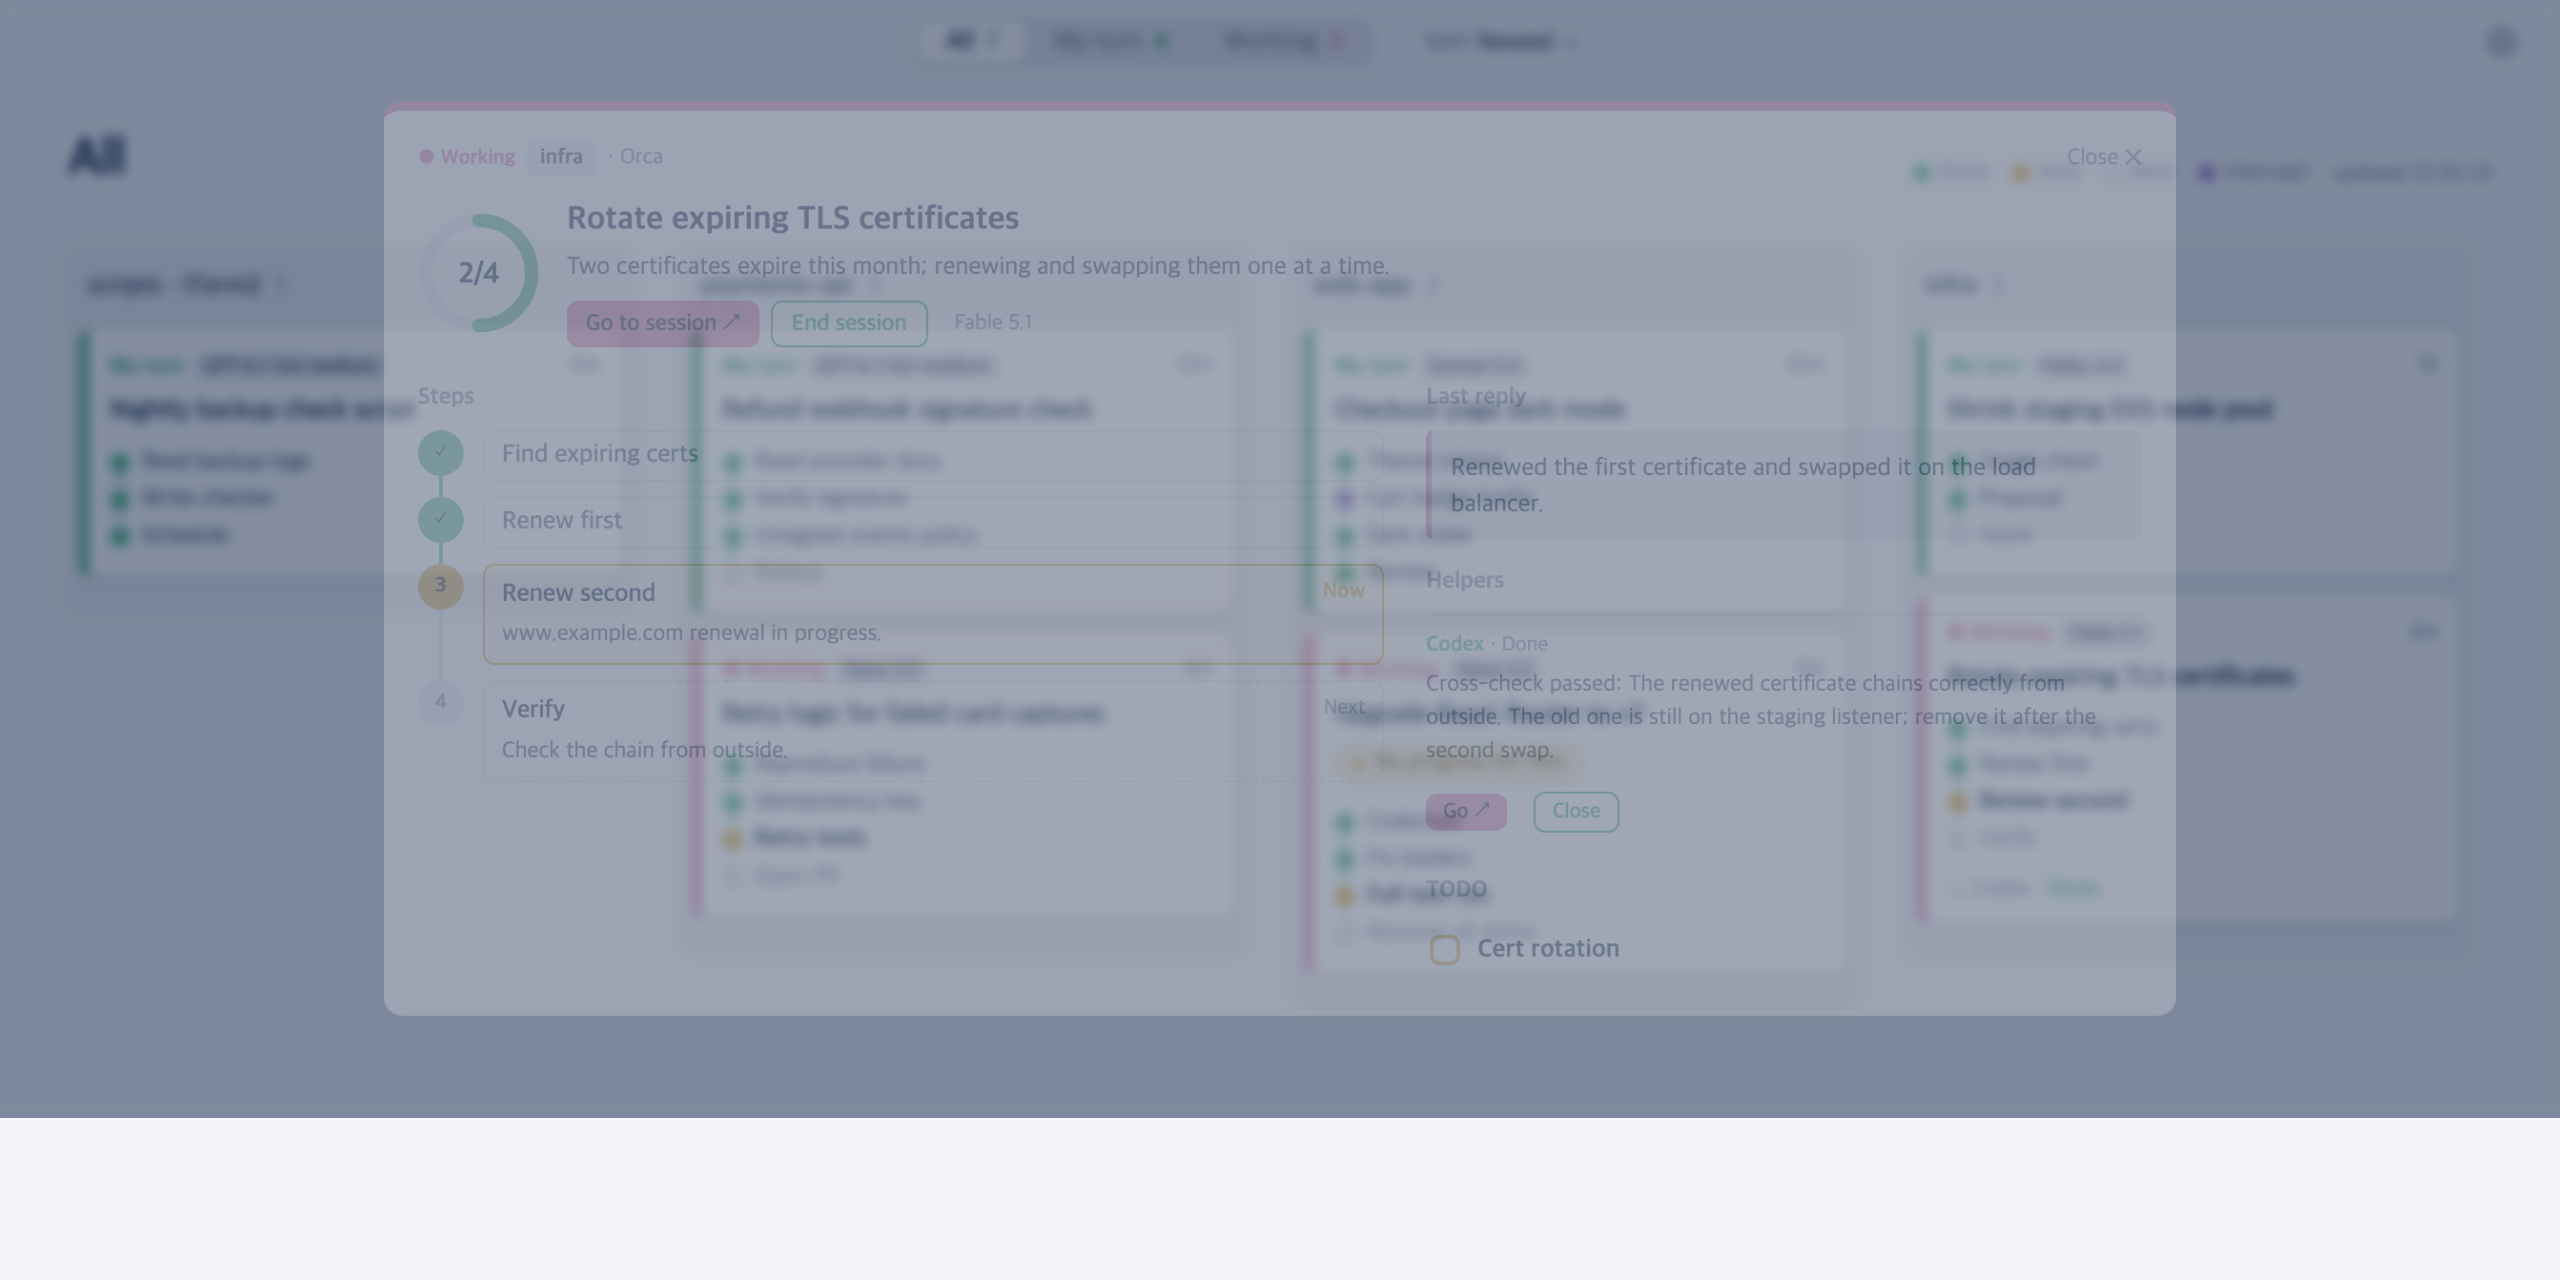
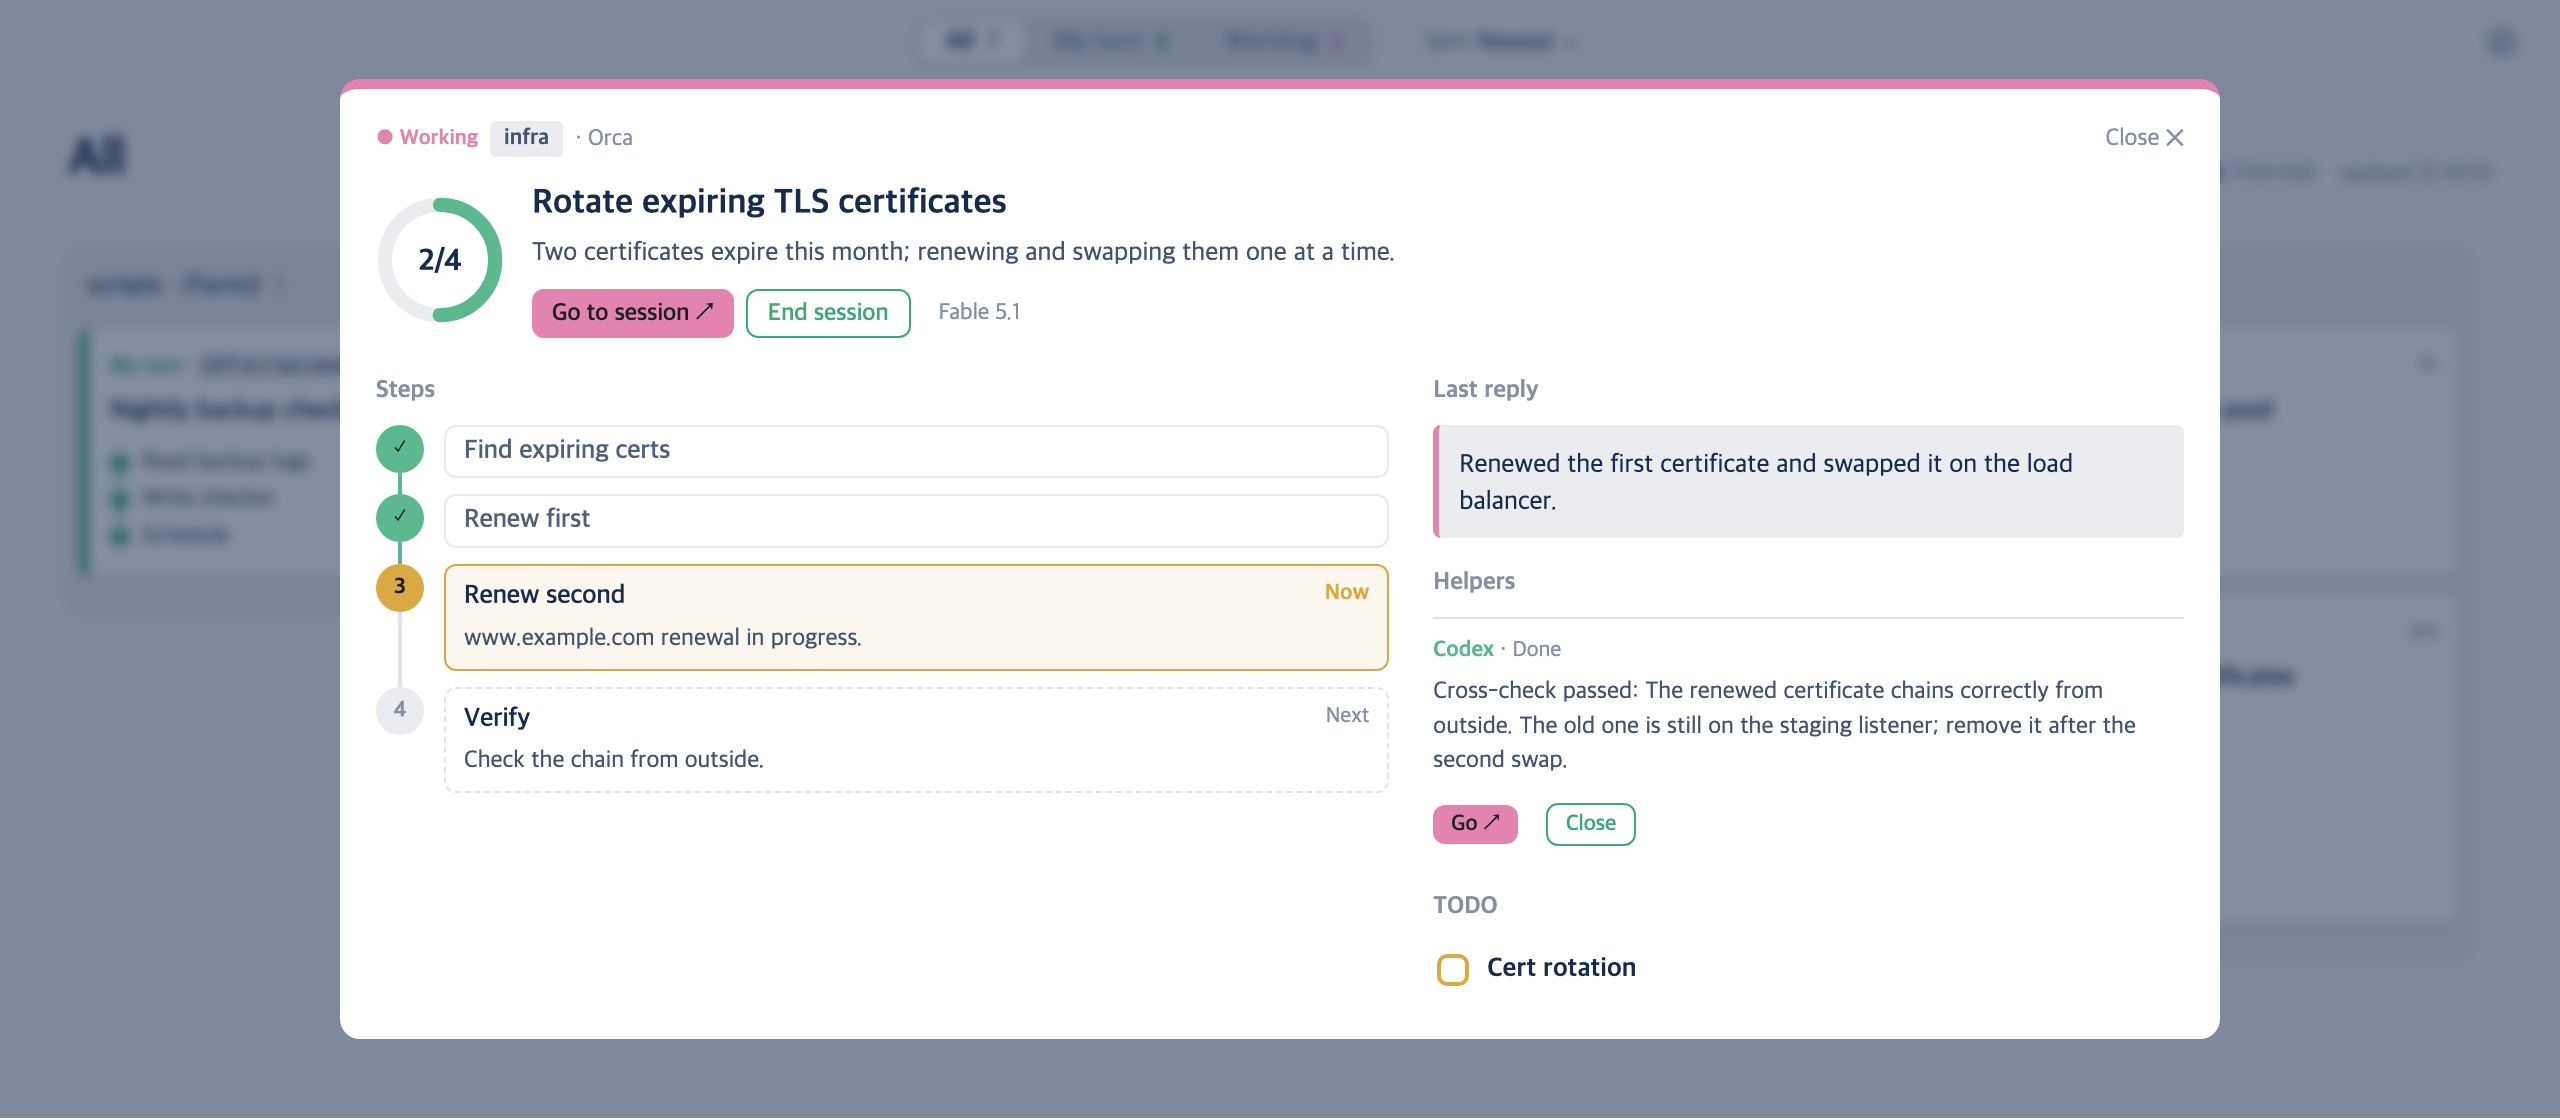
docs: retake the detail view as a Mac window shot
The detail screenshot caught the open animation half way, so the
modal was see-through and a blank strip sat below it. Turn off the
sheet animation with a selector that outranks it, shoot at the same
1280x560 view as board-window.png, and frame it the same way.
README now shows detail-window.png.

diff --git a/macos/board/tools/demo_screens.py b/macos/board/tools/demo_screens.py
@@ -2,6 +2,7 @@
 """README 스크린샷용 데모 보드를 만든다. 실제 세션·대화 기록 대신 가짜 데이터로 board.py 를 그린다.
 
   python3 tools/demo_screens.py            # docs/screenshots/*.png 생성 (Google Chrome 필요)
+  python3 tools/demo_screens.py detail     # 상세 창 그림(detail.png, detail-window.png)만
 """
 import json
 import os
@@ -207,6 +208,24 @@ def trim_bottom(name, pad=40):
 
 
 FROZEN_ORCAS = ('.orca{animation:none!important;transform:translateY(6%)!important}')
+# 상세 창이 열리는 효과(.modal:target .box{animation:sheet ...!important})보다 구체적으로 써야 꺼진다
+FROZEN_MODAL = ('.modal:target .box,.modal:target .bg,.modal *{animation:none!important;transition:none!important}')
+
+
+def mac_window(name, out):
+    """찍은 화면을 README 첫 그림(board-window.png)과 같은 맥 창 모양으로 감싼다.
+    그 그림을 만든 원본 스크립트가 없어서, 배경·그림자는 board-window.png 를 그대로 깔고 창 자리만 바꾼다."""
+    from PIL import Image, ImageDraw
+    bg = Image.open(os.path.join(OUTDIR, 'board-window.png')).convert('RGBA')
+    shot_ = Image.open(os.path.join(OUTDIR, name + '.png')).convert('RGBA')
+    x, y, w, h, r = 80, 64, 2560, 1120, 22   # board-window.png 의 창 자리와 모서리
+    shot_ = shot_.crop((0, 0, w, h))
+    shot_.convert('RGB').save(os.path.join(OUTDIR, name + '.png'), optimize=True)   # 창 없는 그림도 빈 띠 없이
+    big = Image.new('L', (w * 4, h * 4), 0)   # 4배로 그려 줄여서 모서리를 매끈하게
+    ImageDraw.Draw(big).rounded_rectangle((0, 0, w * 4 - 1, h * 4 - 1), r * 4, fill=255)
+    bg.paste(shot_, (x, y), big.resize((w, h), Image.LANCZOS))
+    bg.convert('RGB').save(os.path.join(OUTDIR, out + '.png'), optimize=True)
+    print('wrote', os.path.join(OUTDIR, out + '.png'))
 
 
 def main():
@@ -222,12 +241,17 @@ def main():
     # 범고래는 멈춘 모습으로 두 마리
     html = html.replace('setTimeout(pop,300+Math.random()*1500);', 'pop();pop();')
     open(board, 'w', encoding='utf-8').write(html)
+    first = html.split('class="modal ', 1)[1].split('id="', 1)[1].split('"', 1)[0]
+    # 상세 창: 효과를 끄고 다 열린 모습으로 찍는다. 헤드리스 크롬은 화면 높이가 창보다 80px 작게 잡혀서
+    # 640 으로 찍어야 board-window.png 와 같은 1280x560 화면이 나온다 (아래 남는 80px 은 mac_window 가 잘라낸다)
+    shot(board, 'detail', 1280, 640, hash_='#' + first, css=FROZEN_ORCAS + FROZEN_MODAL)
+    mac_window('detail', 'detail-window')
+    if sys.argv[1:] == ['detail']:   # python3 tools/demo_screens.py detail : 상세 그림만 다시 찍는다
+        shutil.rmtree(TMP, ignore_errors=True)
+        return
     shot(board, 'board', 1280, 700, css=FROZEN_ORCAS)
     trim_bottom('board')
     shot(board, 'settings', 1280, 980, hash_='#settings', css=FROZEN_ORCAS + '#mcpu,#mmem{visibility:hidden}')
-    first = html.split('class="modal ', 1)[1].split('id="', 1)[1].split('"', 1)[0]
-    # 상세 창이 열리는 효과 중간에 찍히면 반투명하게 나온다. 효과를 끄고 다 열린 모습으로 찍는다
-    shot(board, 'detail', 1280, 640, hash_='#' + first, css=FROZEN_ORCAS + '.modal,.modal *{animation:none!important;transition:none!important}')
     patch('ai')
     B.build()
     shot(B.OUT, 'ai-groups', 1280, 700)   # 넉넉히 찍고 아래 빈 공간은 잘라낸다 (칸마다 카드 수가 달라 잘리던 것 방지)

diff --git a/README.md b/README.md
@@ -38,7 +38,7 @@ brew install leeleelee3264/tap/spyhop && open -a Spyhop
   </tr>
   <tr>
     <td><img src="docs/screenshots/ai-groups.png" alt="AI topics"><br><sub><b>AI topics</b>: related work in one column.</sub></td>
-    <td><img src="docs/screenshots/detail.png" alt="Detail view"><br><sub><b>Detail view</b>: every step, the last reply and the TODO list.</sub></td>
+    <td><img src="docs/screenshots/detail-window.png" alt="Detail view"><br><sub><b>Detail view</b>: every step, the last reply and the TODO list.</sub></td>
   </tr>
 </table>
 
